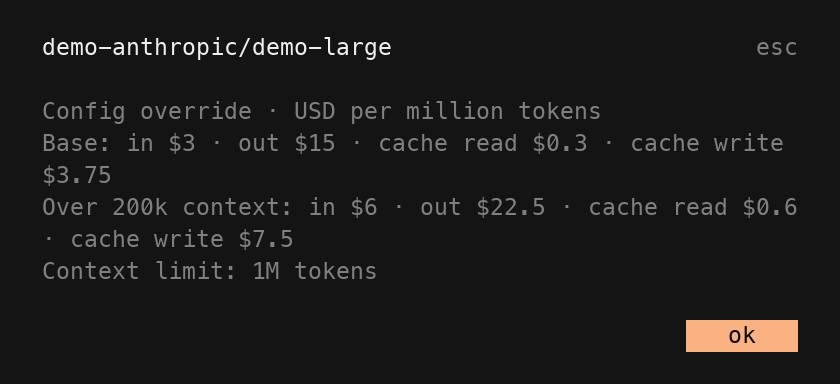
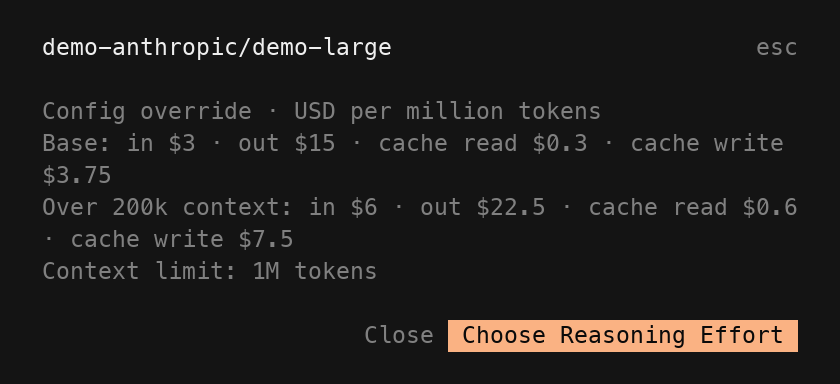
feat: adding again the footer cost information

Changed region(s): [[0.4333, 0.8125, 0.9286, 0.9375]]

diff --git a/src/tui.tsx b/src/tui.tsx
@@ -1,6 +1,6 @@
 /** @jsxImportSource @opentui/solid */
 import { Plugin } from "@opencode/plugin/tui"
-import { InputRenderable, type KeyEvent } from "@opentui/core"
+import { CliRenderEvents, InputRenderable, type KeyEvent } from "@opentui/core"
 import { Show, createEffect, createMemo, createSignal, onCleanup } from "solid-js"
 import type { Context as TuiContext } from "@opencode/plugin/tui/context"
 import { useKeyboard, useTerminalDimensions } from "@opentui/solid"
@@ -237,7 +237,7 @@ export default Plugin.define({
     let disposed = false
     let refreshID = 0
     let opening = false
-    const footer = context.options?.footer === true
+    const footer = context.options?.footer !== false
 
     const refresh = async (): Promise<CostData> => {
       const id = ++refreshID
@@ -294,14 +294,14 @@ export default Plugin.define({
       }
     }
 
-    const switchToRow = async (row: ModelRow, sessionID: string) => {
+    const switchToRow = async (row: ModelRow, sessionID: string, variant?: string) => {
       if (disposed || resolveSessionID() !== sessionID) return
       try {
-        await switchSessionModel(context.client, sessionID, row)
+        await switchSessionModel(context.client, sessionID, row, variant)
         await refreshSessionInfo(sessionID)
         context.ui.toast.show({
           title: "Model switched",
-          message: `Switched to ${row.providerID}/${row.modelID}`,
+          message: `Switched to ${row.providerID}/${row.modelID}${variant ? `#${variant}` : ""}`,
           variant: "success",
         })
       } catch (error) {
@@ -339,9 +339,23 @@ export default Plugin.define({
       const title = `${row.providerID}/${row.modelID}`
       if (sessionID && resolveSessionID() === sessionID) {
         const confirmed = await context.ui.dialog.confirm({
-          title, message, label: { confirm: "Switch to this model", cancel: "Close" },
+          title,
+          message,
+          label: { confirm: row.variantIDs.length ? "Choose reasoning effort" : "Switch to this model", cancel: "Close" },
         })
-        if (confirmed) await switchToRow(row, sessionID)
+        if (!confirmed || disposed || resolveSessionID() !== sessionID) return
+        if (row.variantIDs.length === 0) {
+          await switchToRow(row, sessionID)
+          return
+        }
+        const picked = await context.ui.dialog.select<{ variant?: string }>({
+          title: "Reasoning effort · " + row.modelID,
+          options: [
+            { title: "Default", value: {} },
+            ...row.variantIDs.map((variant) => ({ title: variant, value: { variant } })),
+          ],
+        })
+        if (picked) await switchToRow(row, sessionID, picked.variant)
       } else {
         await context.ui.dialog.alert({ title, message })
       }
@@ -748,6 +762,7 @@ function CostsTable(props: {
 function CostBadge(props: { context: TuiContext; data: () => CostData }) {
   const context = props.context
   const dimensions = useTerminalDimensions()
+  const [footerWidth, setFooterWidth] = createSignal<number>()
 
   // Read inside JSX so both the selected model and the config rows are reactive.
   const badge = () => {
@@ -758,18 +773,46 @@ function CostBadge(props: { context: TuiContext; data: () => CostData }) {
     const providerID = selected?.providerID ?? selected?.provider?.id
     const modelID = selected?.modelID ?? selected?.id ?? selected?.model?.modelID ?? selected?.model?.id
     // Without a routed model (no session started yet) the configured default
-    // is shown, so the prices are beside the provider from startup.
+    // is shown so its prices are visible from startup.
     const row = providerID && modelID ? findRow(rows, providerID, modelID) : rows.find((entry) => entry.isDefault)
     if (!row) return undefined
-    const text = fmtBadge(row)
-    return text && text.length <= dimensions().width / 2 ? text : undefined
+    return fmtBadge(row, dimensions().width - 4) ? row : undefined
   }
 
   const color = () => context.theme?.text?.muted ?? context.theme?.current?.textMuted
 
+  const [offset, setOffset] = createSignal(0)
+
   return (
     <Show when={badge()}>
-      {(price) => <text fg={color()} flexShrink={1} wrapMode="none" truncate>{price()}</text>}
+      {(row) => (
+        <box
+          height={2}
+          minHeight={0}
+          flexShrink={0}
+          ref={(anchor) => {
+            // Reserve a second row without taking width from the host's status items.
+            // Align the badge to the footer's left edge when the slot moves.
+            const align = () => {
+              const footer = anchor.parent
+              if (!footer) return
+              setOffset(anchor.x - footer.x)
+              if (footer.width > 0) setFooterWidth(footer.width)
+            }
+            context.renderer.on(CliRenderEvents.FRAME, align)
+            onCleanup(() => {
+              context.renderer.off(CliRenderEvents.FRAME, align)
+              setFooterWidth(undefined)
+            })
+          }}
+        >
+          <box position="absolute" left={-offset()} top={1}>
+            <text fg={color()} wrapMode="none">
+              {fmtBadge(row(), Math.min(footerWidth() ?? Infinity, dimensions().width - 4))}
+            </text>
+          </box>
+        </box>
+      )}
     </Show>
   )
 }

diff --git a/src/costs.ts b/src/costs.ts
@@ -28,6 +28,7 @@ export interface ModelRow {
   providerSource?: string
   modelID: string
   modelName?: string
+  variantIDs: string[]
   /** Normalized cost tiers, ascending by context threshold. Empty = no cost info at all. */
   tiers: CostTier[]
   /** The model is declared under `providers.*.models.*` in opencode.json(c). */
@@ -105,7 +106,7 @@ async function tryProvidersPayload(client: any, location?: { directory: string }
   }
   for (const model of models) {
     const providerID = str(model?.providerID)
-    const modelID = str(model?.modelID) ?? str(model?.id)
+    const modelID = str(model?.id) ?? str(model?.modelID)
     if (!providerID || !modelID || model.enabled === false) continue
     const group = groups.get(providerID) ?? { id: providerID, name: names.get(providerID), models: Object.create(null) }
     group.models[modelID] = model
@@ -130,9 +131,9 @@ async function tryConfigDocuments(client: any, location?: { directory: string })
  * body `{ model: { providerID, id } }`). Uses the typed client method when
  * available and falls back to the underlying request client otherwise.
  */
-export async function switchSessionModel(client: unknown, sessionID: string, row: ModelRow): Promise<void> {
+export async function switchSessionModel(client: unknown, sessionID: string, row: ModelRow, variant?: string): Promise<void> {
   const anyClient = client as any
-  const model = { providerID: row.providerID, id: row.modelID }
+  const model = { providerID: row.providerID, id: row.modelID, variant }
 
   const typed = anyClient?.session?.switchModel
   if (typeof typed === "function") {
@@ -199,6 +200,7 @@ export async function fetchCostData(client: unknown, location?: { directory: str
           providerSource,
           modelID,
           modelName: str(model?.name),
+          variants: model?.variants,
           cost,
           declaredInConfig: strict,
           costFromConfig: authoredCost != null,
@@ -241,12 +243,20 @@ export async function fetchCostData(client: unknown, location?: { directory: str
   return { rows, hasAuthoredConfig: strict, providerPricesUnavailable: !payload }
 }
 
+function variantIDs(variants: unknown): string[] {
+  const ids = Array.isArray(variants)
+    ? variants.map((variant) => str(variant?.id) ?? str(variant))
+    : variants && typeof variants === "object" ? Object.keys(variants) : []
+  return [...new Set(ids.filter((id): id is string => !!id && id !== "default"))]
+}
+
 function makeRow(input: {
   providerID: string
   providerName: string
   providerSource?: string
   modelID: string
   modelName?: string
+  variants?: unknown
   cost: unknown
   declaredInConfig: boolean
   costFromConfig: boolean
@@ -258,6 +268,7 @@ function makeRow(input: {
     providerSource: input.providerSource,
     modelID: input.modelID,
     modelName: input.modelName,
+    variantIDs: variantIDs(input.variants),
     tiers: normalizeTiers(input.cost),
     declaredInConfig: input.declaredInConfig,
     costFromConfig: input.costFromConfig,
@@ -482,11 +493,17 @@ export function fmtRates(tier: CostTier): string {
   return `${fmtRatesTop(tier)} · ${fmtRatesCache(tier)}`
 }
 
-/** Compact footer summary of base input and output rates. */
-export function fmtBadge(row: ModelRow): string {
+/** Base rates for the footer, with cache rates when they fit. */
+export function fmtBadge(row: ModelRow, width: number): string {
   const base = row.tiers.find((tier) => !tier.tier)
-  if (!base || (base.input === undefined && base.output === undefined)) return ""
-  return `${fmtRatesTop(base)} / 1M tokens`
+  if (!base) return ""
+  const unit = " / 1M tokens"
+  if (base.cache?.read !== undefined || base.cache?.write !== undefined) {
+    const full = fmtRates(base) + unit
+    if (full.length <= width) return full
+  }
+  const compact = fmtRatesTop(base) + unit
+  return (base.input !== undefined || base.output !== undefined) && compact.length <= width ? compact : ""
 }
 
 // ---------------------------------------------------------------------------

diff --git a/README.md b/README.md
@@ -26,20 +26,24 @@ Open OpenCode in your project and run `/models-cost`. From the checkout itself, 
 
 - Type to filter by model or provider. Use **↑** and **↓** to move and **Enter** to inspect prices. **Esc** clears the search, then closes the table.
 - The wide view groups models by provider and shows cache prices and context tiers inline. Narrow terminals use OpenCode’s native picker.
-- In a session, choose **Switch to this model** in the details dialog. Opening or closing details leaves the selected model as it was. Switching applies to the current session and leaves config files untouched.
+- In a session, choose **Switch to this model** or **Choose reasoning effort** if the model has variants. Pick **Default** or a named variant to apply the model and effort together. Esc cancels the picker and keeps the current selection. Switching applies to the current session and leaves config files untouched.
 
 ![Model details displaying the config override label, base rates, 200k tier, and context limit](docs/images/model-costs-details.png)
 
-## Enable the optional footer
+![Reasoning effort picker for Demo Large with Default, low, and high options](docs/images/model-costs-effort.png)
 
-The footer shows base input and output rates for the current model. To opt in on OpenCode 2.3.2, add the plugin with the `footer` option to your terminal client’s `cli.json` (typically `~/.config/opencode/cli.json`). Use the same plugin path as in the install step.
+## Configure the footer
+
+By default, the footer shows the current model’s base rates on a separate row below the prompt status line. It includes cache read and write when pricing is available and the line fits. On narrow terminals it shows input and output only. To hide it on OpenCode 2.3.2, set `footer: false` on the plugin entry in your terminal client’s `cli.json` (typically `~/.config/opencode/cli.json`). Use the same plugin path as in the install step.
+
+![Prompt footer showing input, output, cache read, and cache write rates on their own row](docs/images/model-costs-footer.png)
 
 ```json
 {
   "plugins": [
     {
       "package": "/absolute/path/to/opencode-model-costs",
-      "options": { "footer": true }
+      "options": { "footer": false }
     }
   ]
 }

diff --git a/CONTRIBUTING.md b/CONTRIBUTING.md
@@ -13,8 +13,8 @@ OpenCode loads the TypeScript directly. The root [opencode.json](opencode.json) 
 ## Verify a change
 
 1. Open `/models-cost`. Check the explicit zero and missing cache rate on `demo-small`, the 200k context tier on `demo-large`, and the unavailable rates on `demo-unpriced`.
-2. Filter the list, inspect a row, and close it. Repeat from an active session and check that only **Switch to this model** changes the selected model.
-3. Reopen the command in a narrow terminal to check the native picker. If you touch the footer, opt in using the [README instructions](README.md#enable-the-optional-footer) and check that the rates update after a switch.
+2. Filter the list, inspect a row, and close it. In an active session, choose a named effort for `demo-large` and verify the session uses it. Cancel the effort picker and check that the current model and effort stay selected. Switch to `demo-small` to verify the direct switch for a model without variants.
+3. Reopen the command in a narrow terminal to check the native picker. Check that the footer rates update after a switch and that the [footer off setting](README.md#configure-the-footer) hides it.
 4. Run `/reload` after editing plugin code. Check the OpenCode log for load errors. The default log is `~/.local/share/opencode/log/opencode.log`.
 5. For packaging changes, use `npm pack --dry-run` to inspect the file list. Install a real tarball in a disposable project and open the command before releasing.
 

diff --git a/docs/design.md b/docs/design.md
@@ -427,8 +427,15 @@ Deltas discovered while implementing, verified against the live npm package `@op
 
 The price browser now opens details on Enter. Switching is a separate action available only
 when the session that opened the browser is still active. The router is the source of session
-identity. The footer is opt-in via `options.footer` on the CLI plugin entry, uses the native
-status slot, and shows base input and output rates only. The command chooses the native picker when the table does not fit.
+identity. The footer is enabled by default and can be disabled via `options.footer: false`
+on the CLI plugin entry. The status slot reserves a separate row for base rates below the
+prompt status line, aligned with the prompt's left edge. Cache read and write are included
+when reported and the full line fits.
+The command chooses the native picker when the table does not fit.
+
+For models with named variants, the session details offer an effort picker. It reads the
+variants from the selected model's catalog metadata and applies the model and variant in one
+session switch request. Closing the picker leaves the session selection untouched.
 
 Rates retain missing values and identify config overrides or catalog rates in details. The
 loader checks config declarations before deciding whether to show the wider configured catalog.

diff --git a/CHANGELOG.md b/CHANGELOG.md
@@ -3,6 +3,17 @@
 All notable changes to `opencode-model-costs` per released version, newest first.
 On every version bump, add an entry here at the top.
 
+## 0.5.1 — 2026-11-20
+
+- Enabled the price footer by default and restored its own row below the prompt
+  status line. It shows base input, output, cache read, and cache write prices
+  when they fit, with a compact input/output display on narrower terminals.
+  Set `footer: false` in the CLI plugin options to hide it.
+- Added reasoning-effort selection for models with variants. Default or a named
+  variant applies with the model in one session switch. Esc cancels the selection.
+- Added demo variants and refreshed the README captures to show the price table,
+  model details, effort picker, and cache rates in the footer.
+
 ## 0.5.0 — 2026-11-20
 
 - Enter in `/models-cost` opens price details. Switching is a separate action
